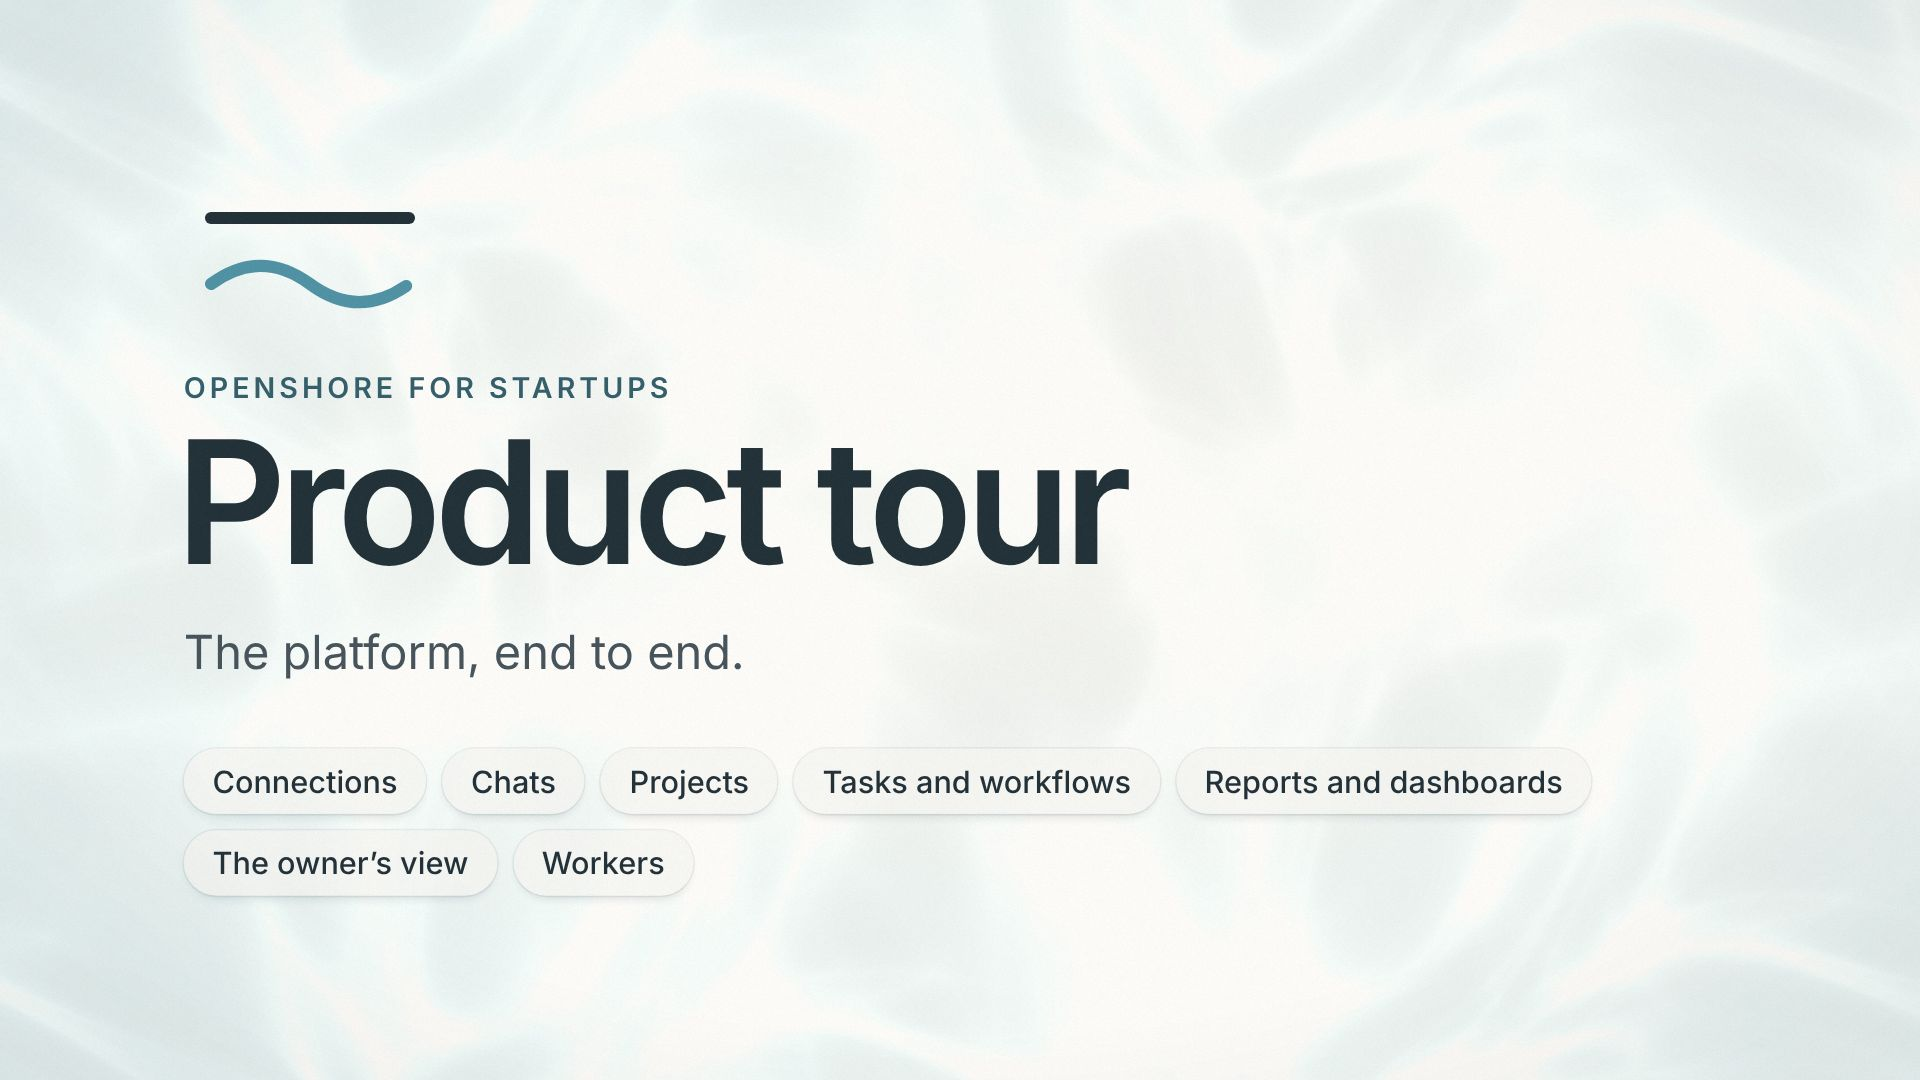
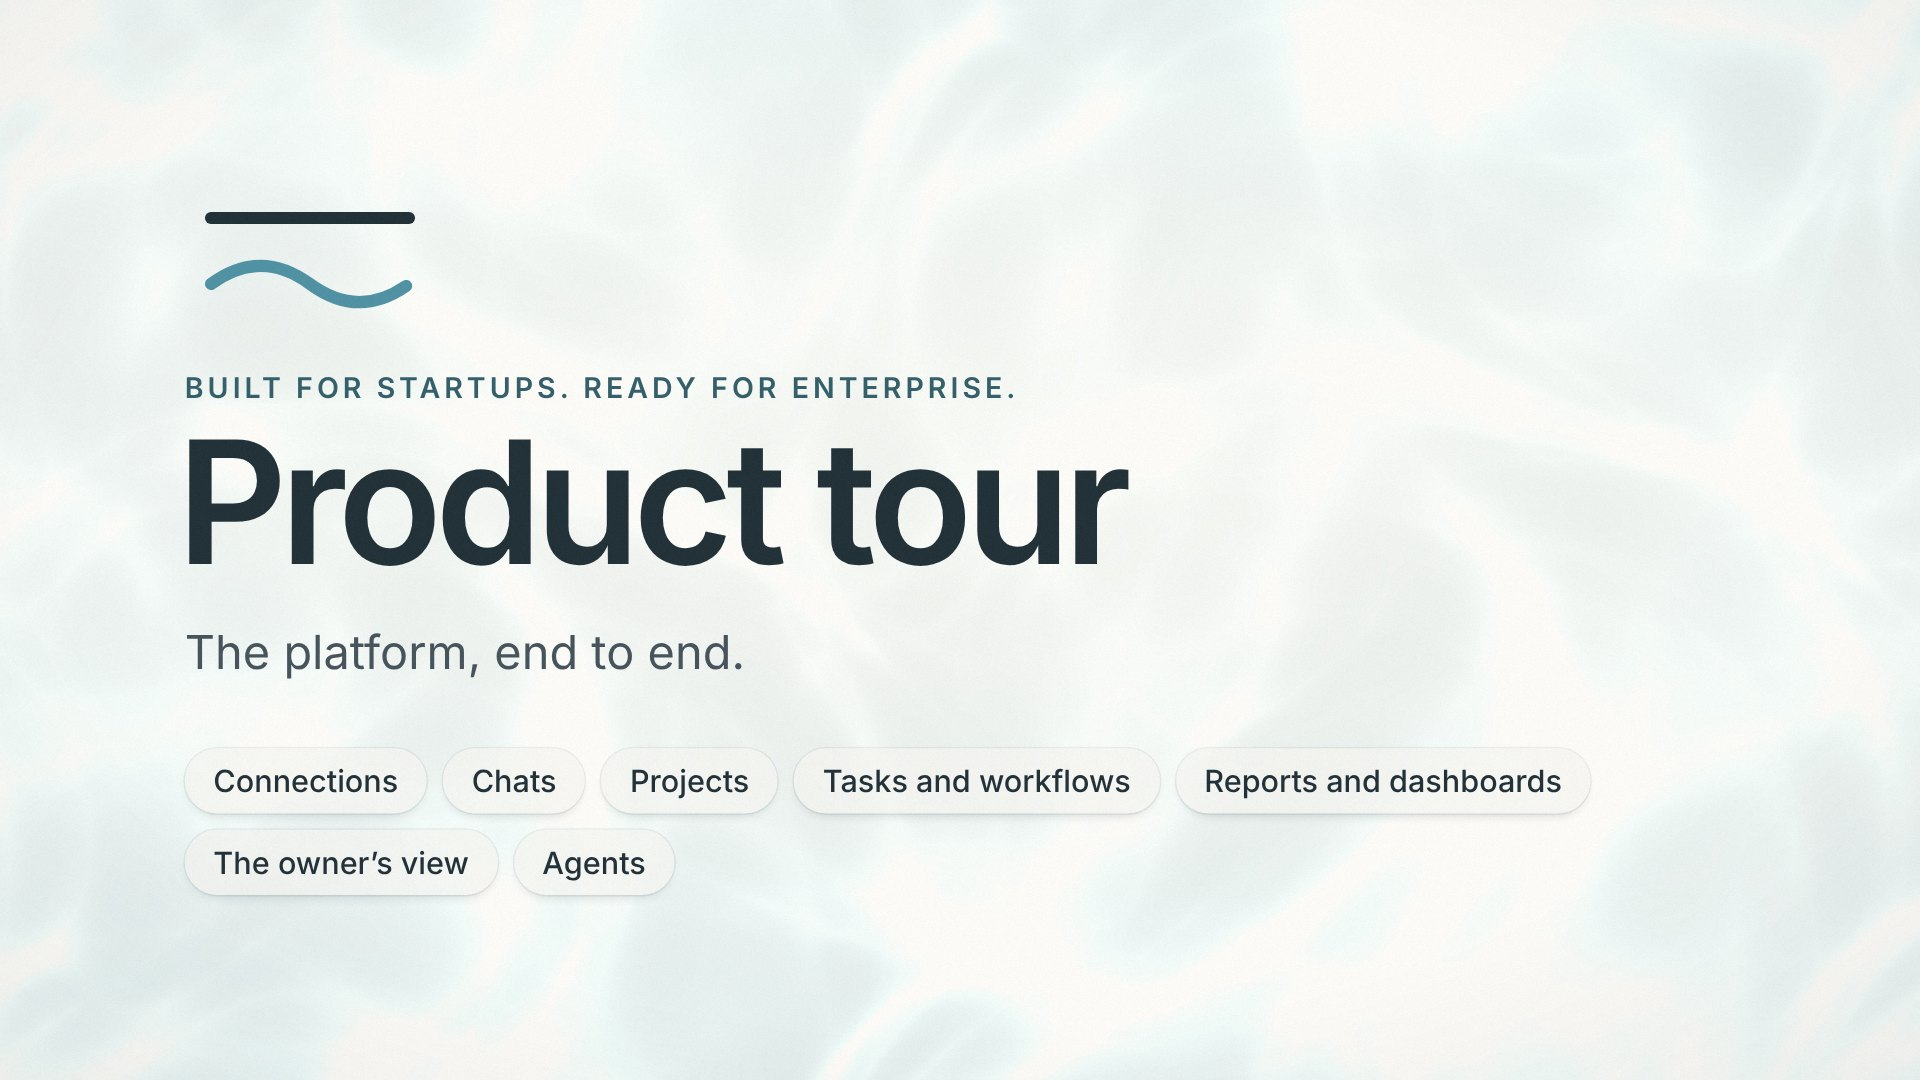
Product tour: "Any AI model" and the OpenShore Harness, in place of "One chat"
The founder asked for the least interesting section to give way to one on
using any AI model (2026-11-24). "One chat", which the film and the home
page's demos already show, becomes "Any model. The same OpenShore.": bring
any model, cloud or local, on your own keys; the OpenShore Harness makes
any capable large model work the same way, with the same chats, agents and
approvals. The page's description says so too.

The tour's poster still showed a "Workers" chip from before the rename; it
is recaptured from the film's title card, which now says Agents.

Claude-Session: https://claude.ai/code/session_01JMDT1Ukg7R8SXWjNmWqMAd

diff --git a/README.md b/README.md
@@ -182,6 +182,14 @@ Then, the same day (founder):
   (hand patches to their visible text, like "The way out" above: re-apply
   them if a film is re-exported), and the sales example says
   "salesperson", not "rep".
+- **Product tour: Any AI model.** "One chat" (shown in the film and the
+  home page's demos) gave way to a section on the OpenShore Harness,
+  OpenShore's own layer between the model and the team, which makes any
+  capable large model work the same way: the same chats, agents and
+  approvals. Describe only what the harness does; the founder confirms
+  anything new. The tour's poster (`tour-poster.jpg`) was recaptured from
+  the film's title card (at 8 s, 1280 by 720 at 1.5x) so its chips say
+  Agents.
 - **All five agents on the home page**, behind tabs, Sales ops first (the job
   the pilot starts with). The one-line "More bots" list is gone. In the app
   frame every example shows the same four channels with its own lit.
